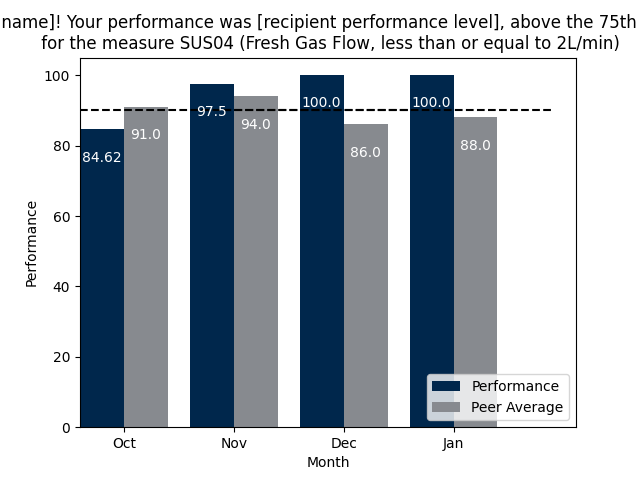
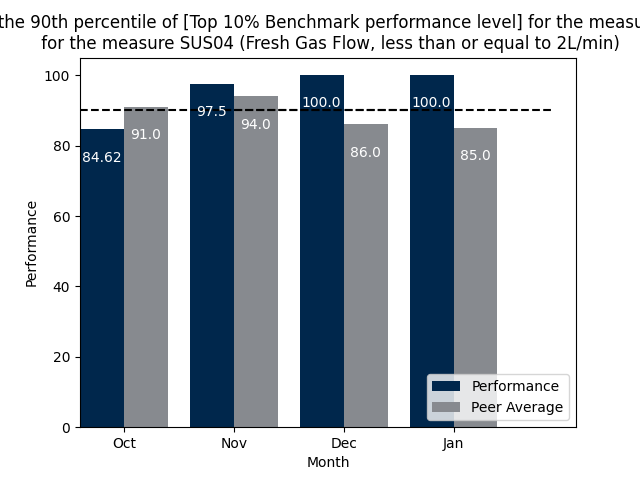
tested social loss vignette

Changed region(s): [[0.0, 0.0312, 1.0, 0.0625], [0.6875, 0.2188, 0.7812, 0.3438]]

diff --git a/bit_stomach/gap_annotate.py b/bit_stomach/gap_annotate.py
@@ -113,6 +113,7 @@ def peer_gap_annotate(input_graph,s13,latest_measure_df,comparator_bnode):
         o14=BNode() 
         input_graph.add((s14,p14,o14))
         input_graph=annotate_peer_comparator(input_graph,o14,ac,av)
+        input_graph=annotate_peer_average_comparator(input_graph,o14,ac,av)
         o14=BNode() 
         input_graph.add((s14,p14,o14))
         input_graph=annotate_performance_peer_gap(input_graph,o14,ac,av)
@@ -129,6 +130,8 @@ def peer_gap_annotate(input_graph,s13,latest_measure_df,comparator_bnode):
     
 
     return input_graph
+
+
 
 def annotate_top_10_percentile(a,s16,measure_Name,o16):
     p15=RDF.type
@@ -160,12 +163,13 @@ def top_10_gap_annotate(input_graph,s13,latest_measure_df,comparator_bnode):
         o14=BNode() 
         input_graph.add((s14,p14,o14))
         input_graph=annotate_peer_comparator(input_graph,o14,ac,av)
+        input_graph=annotate_peer_average_comparator(input_graph,o14,ac,av)
         o14=BNode() 
         input_graph.add((s14,p14,o14))
         input_graph=annotate_performance_peer_gap(input_graph,o14,ac,av)
         # o14=BNode()
         # input_graph.add((s14,p14,o14))
-        # input_graph=annotate_top_10_percentile(input_graph,o14,ac,av)
+        input_graph=annotate_top_10_percentile(input_graph,o14,ac,av)
         if(latest_measure_df['peer_90th_percentile_benchmark'][0]<=latest_measure_df['Performance_Rate'][0]):
             o14=BNode() 
             input_graph.add((s14,p14,o14))
@@ -204,12 +208,13 @@ def top_25_gap_annotate(input_graph,s13,latest_measure_df,comparator_bnode):
         o14=BNode() 
         input_graph.add((s14,p14,o14))
         input_graph=annotate_peer_comparator(input_graph,o14,ac,av)
+        input_graph=annotate_peer_average_comparator(input_graph,o14,ac,av)
         o14=BNode() 
         input_graph.add((s14,p14,o14))
         input_graph=annotate_performance_peer_gap(input_graph,o14,ac,av)
         # o14=BNode()
         # input_graph.add((s14,p14,o14))
-        # input_graph=annotate_top_25_percentile(input_graph,o14,ac,av)
+        input_graph=annotate_top_25_percentile(input_graph,o14,ac,av)
         if(latest_measure_df['peer_75th_percentile_benchmark'][0]<=latest_measure_df['Performance_Rate'][0]):
             o14=BNode() 
             input_graph.add((s14,p14,o14))
@@ -226,10 +231,17 @@ def top_25_gap_annotate(input_graph,s13,latest_measure_df,comparator_bnode):
 
 def annotate_peer_comparator(a,s16,measure_Name,o16):
     p15=RDF.type
-    o15=URIRef('http://purl.obolibrary.org/obo/PSDO_0000126')
-    a.add((s16,p15,o15))
-    p15=RDF.type
     o15=URIRef('http://purl.obolibrary.org/obo/PSDO_0000095')
+    a.add((s16,p15,o15))
+    p16=URIRef('http://example.com/slowmo#RegardingComparator')
+    a.add((s16,p16,o16))
+    p17=URIRef('http://example.com/slowmo#RegardingMeasure')
+    o17=measure_Name
+    a.add((s16,p17,o17))
+    return a
+def annotate_peer_average_comparator(a,s16,measure_Name,o16):
+    p15=RDF.type
+    o15=URIRef('http://purl.obolibrary.org/obo/PSDO_0000126')
     a.add((s16,p15,o15))
     p16=URIRef('http://example.com/slowmo#RegardingComparator')
     a.add((s16,p16,o16))

diff --git a/thinkpudding/load.py b/thinkpudding/load.py
@@ -98,7 +98,7 @@ def matching(caus_out_dict,spek_out_dicts,comparator_dicts):
     fz=list(comparator_dicts.values())
     accept_ids=[]
     bnodes=[]
-    comparator_list=["http://purl.obolibrary.org/obo/PSDO_0000128","http://purl.obolibrary.org/obo/PSDO_0000129"]
+    comparator_list=["http://purl.obolibrary.org/obo/PSDO_0000128","http://purl.obolibrary.org/obo/PSDO_0000129","http://purl.obolibrary.org/obo/PSDO_0000126"]
 
     
     for i in range(len(fg)):
@@ -128,10 +128,12 @@ def matching(caus_out_dict,spek_out_dicts,comparator_dicts):
                         for g in range(len(fz[a])):
                             if str(fr[x][f]) in comparator_list:
                                 if fr[x][f] == fz[a][g]:
+                                    ab= fr[x].count(fr[x][f])
+                                    if ab==2:
                                     # print(fr[x][f])
                                     # print("\n")
                                     # print(fz[a][g])
-                                    result1=True
+                                        result1=True
                                     
                                 if result1 == True:
                                     l=[k for k,v in spek_out_dicts.items() if v == fr[x]]

diff --git a/candidatesmasher/candidatesmasher.py b/candidatesmasher/candidatesmasher.py
@@ -274,7 +274,7 @@ class CandidateSmasher:
         # dfs.to_csv("dfs.csv")
         self.df_merged = pd.concat([dfs, self.goal_types], ignore_index=True, sort=False)
         self.df_merged =self.df_merged.fillna(0)
-        self.df_merged.to_csv("df_merged.csv")
+        # self.df_merged.to_csv("df_merged.csv")
         return self.df_merged
 
        
@@ -358,7 +358,7 @@ class CandidateSmasher:
         #     self.df["template_type_dicts3"]=0
         # if "template_type_dicts4" in self.df.columns:
         #     self.df["template_type_dicts4"]=0
-        self.df.to_csv("template.csv")
+        # self.df.to_csv("template.csv")
     
         return self.df
    

diff --git a/main.py b/main.py
@@ -16,7 +16,7 @@ from requests_file import FileAdapter
 import os
 class Settings(BaseSettings):
     pathways: str = "file://"+os.path.abspath("startup/causal_pathways.json")
-    # pathways: str = "file://"+os.path.abspath("startup/social_loss.json")
+    #pathways: str = "file://"+os.path.abspath("startup/social_loss.json")
     measures: str ="file://"+os.path.abspath("startup/measures.json")
     #templates: str ="file://"+os.path.abspath("startup/lost_peer_average.json")
     templates: str ="file://"+os.path.abspath("startup/templates.json")

diff --git a/bit_stomach/acheivement_loss_annotate.py b/bit_stomach/acheivement_loss_annotate.py
@@ -169,7 +169,7 @@ def top_25_acheivementloss_annotate(input_graph,s13,latest_measure_df,comparator
     latest_measure_df =  latest_measure_df[latest_measure_df.index.isin(l)]
     latest_measure_df = latest_measure_df.reset_index(drop=True)
     
-    # print(latest_measure_df)
+    #print(latest_measure_df)
     if((latest_measure_df["goal_gap_size"][1]<0 and latest_measure_df["goal_gap_size"][0]>=0)==True):
         ac=BNode(latest_measure_df["measure"][0])
         av=comparator_bnode

diff --git a/esteemer/esteemer.py b/esteemer/esteemer.py
@@ -77,6 +77,7 @@ class Esteemer():
                 s_m["text"] = o2
             for s9,p9,o9 in self.spek_tp.triples((s,p8,None)):
                 s_m["Comparator Type"] = o9
+                
             
 
             for s5,p5,o5 in self.spek_tp.triples((s,p3,None)):
